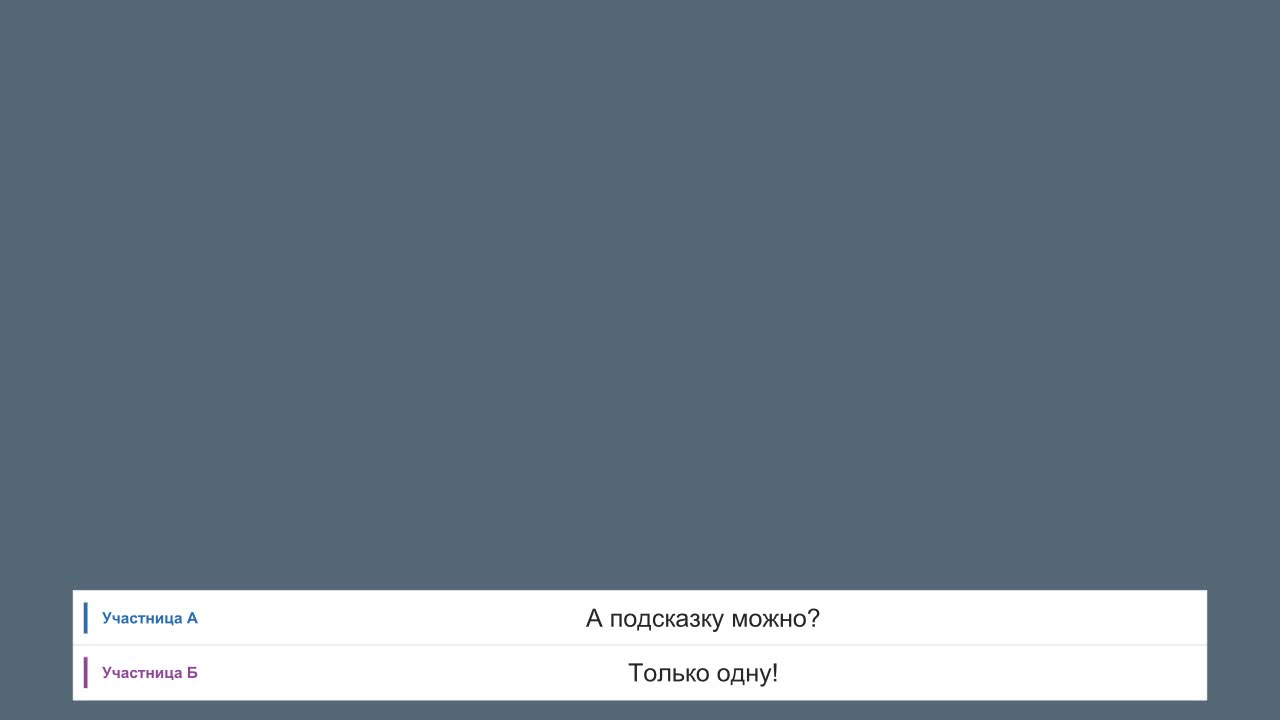
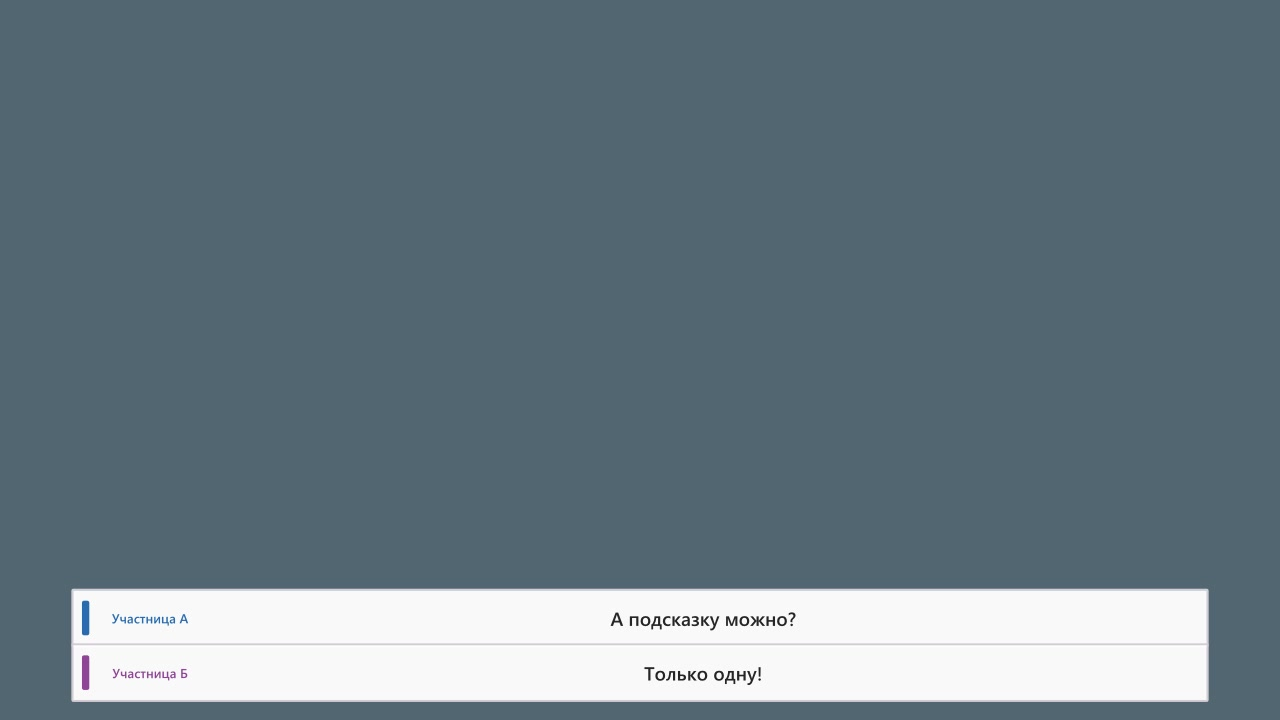
Match compact subtitle preset to episode 12 design reference (#13)

Changed region(s): [[0.0625, 0.825, 0.1562, 0.9778], [0.5, 0.9167, 0.625, 0.9778], [0.4688, 0.8556, 0.625, 0.8861]]

diff --git a/.agents/skills/akb48-video-subtitles/scripts/presentation.py b/.agents/skills/akb48-video-subtitles/scripts/presentation.py
@@ -124,7 +124,10 @@ def render(data, episode):
     if errors: raise ValueError("; ".join(errors))
     # Fixed logical 1080p canvas scales to the video frame in libass.
     # 30 logical pixels = 20 actual pixels in a 720p render.
-    font = data.get("font", "Arial")
+    preset = data.get("style_preset", "episode-12")
+    if preset != "episode-12":
+        raise ValueError("unsupported style_preset; use episode-12")
+    font = data.get("font", "Segoe UI Semibold")
     if not isinstance(font, str) or any(c in font for c in ",\r\n"):
         raise ValueError("invalid font family")
     bottom = data.get("bottom_margin", 30)
@@ -134,6 +137,7 @@ def render(data, episode):
         raise ValueError("raised dialogue requires a scene/placement reason")
     ass = [f"""[Script Info]
 ScriptType: v4.00+
+; Style preset: episode-12 / revision 1
 PlayResX: 1920
 PlayResY: 1080
 WrapStyle: 2
@@ -141,10 +145,10 @@ ScaledBorderAndShadow: yes
 
 [V4+ Styles]
 Format: Name, Fontname, Fontsize, PrimaryColour, SecondaryColour, OutlineColour, BackColour, Bold, Italic, Underline, StrikeOut, ScaleX, ScaleY, Spacing, Angle, BorderStyle, Outline, Shadow, Alignment, MarginL, MarginR, MarginV, Encoding
-Style: Speech,{font},42,&H00252525,&H00252525,&H00FFFFFF,&H00FFFFFF,0,0,0,0,100,100,0,0,1,0,0,5,0,0,0,1
+Style: Speech,{font},40,&H00252525,&H00252525,&H00FFFFFF,&H00FFFFFF,-1,0,0,0,100,100,0,0,1,0,0,5,0,0,0,1
 Style: Speaker,{font},26,&H00252525,&H00252525,&H00FFFFFF,&H00FFFFFF,-1,0,0,0,100,100,0,0,1,0,0,5,0,0,0,1
 Style: Shape,{font},20,&H00FFFFFF,&H00FFFFFF,&H00FFFFFF,&H00FFFFFF,0,0,0,0,100,100,0,0,1,0,0,7,0,0,0,1
-Style: Sign,{font},34,&H00FFFFFF,&H00FFFFFF,&H004D384F,&H004D384F,-1,0,0,0,100,100,0,0,1,0,0,5,0,0,0,1
+Style: Sign,{font},26,&H00FFFFFF,&H00FFFFFF,&H004D384F,&H004D384F,0,0,0,0,100,100,0,0,1,0,0,5,0,0,0,1
 Style: Lyrics,{font},34,&H00252525,&H00252525,&H00FFFFFF,&H00FFFFFF,0,-1,0,0,100,100,0,0,3,4,0,2,100,100,200,1
 
 [Events]
@@ -153,8 +157,8 @@ Format: Layer, Start, End, Style, Name, MarginL, MarginR, MarginV, Effect, Text
     tracks = {"dialogue": [], "inscriptions": [], "lyrics": []}
     def event(e, style, text, layer=2, name=""):
         ass.append(f'Dialogue: {layer},{stamp(e["start_ms"],True)},{stamp(e["end_ms"],True)},{style},{name},0,0,0,,{text}\n')
-    def rect(e, x, y, w, h, color, layer=0):
-        event(e, "Shape", f"{{\\an7\\pos({x},{y})\\p1\\1c&H{color}&\\bord1\\3c&HD5CBD5&}}m 0 0 l {w} 0 l {w} {h} l 0 {h}{{\\p0}}", layer)
+    def rect(e, x, y, w, h, color, layer=0, alpha="00", border="D5CBD5"):
+        event(e, "Shape", f"{{\\an7\\pos({x},{y})\\p1\\1c&H{color}&\\1a&H{alpha}&\\bord3\\3c&H{border}&\\3a&H00&\\shad0}}m 0 0 l {w} 0 l {w} {h} l 0 {h}{{\\p0}}", layer)
     for e in sorted(data["events"], key=lambda x: (x["start_ms"], x["id"])):
         kind = e["kind"]
         if kind == "dialogue":
@@ -182,11 +186,12 @@ Format: Layer, Start, End, Style, Name, MarginL, MarginR, MarginV, Effect, Text
             if sum(len(x[2]) for x in rendered) > 3:
                 raise ValueError(f'event {e["id"]}: split paired exchange longer than three lines')
             for (label, color, lines, voice), height in zip(rendered, heights):
-                rect(e, 110, y, 1700, height, "FFFFFF")
-                rect(e, 126, y+18, 5, height-36, color, 1)
+                rect(e, 110, y, 1700, height, "FFFFFF", alpha="0A")
+                rect(e, 126, y+18, 5, height-36, color, 1, border=color)
                 fs = 22 if len(label)>12 else 26
                 event(e, "Speaker", f"{{\\pos(225,{y+height/2})\\fs{fs}\\1c&H{color}&}}"+safe(label))
-                event(e, "Speech", f"{{\\pos(1055,{y+height/2})}}"+r"\N".join(lines), name=voice)
+                fs = (38 if len(lines) == 1 else 32) if len(rendered) == 2 else 40
+                event(e, "Speech", f"{{\\pos(1055,{y+height/2})\\fs{fs}}}"+r"\N".join(lines), name=voice)
                 y += height
             tracks["dialogue"].append((e, "\n".join(portable)))
         elif kind in ("inscription", "song_title"):
@@ -201,7 +206,7 @@ Format: Layer, Start, End, Style, Name, MarginL, MarginR, MarginV, Effect, Text
                 raise ValueError(f'event {e["id"]}: inscription box outside canvas')
             if w < max(units(line) for line in lines)*20 or h < len(lines)*43:
                 raise ValueError(f'event {e["id"]}: inscription box too small for text')
-            rect(e,x,y,w,h,"6B466F",3)
+            rect(e,x,y,w,h,"8F3487",3,border="D7BC46")
             event(e,"Sign",f"{{\\pos({x+w/2},{y+h/2})}}"+r"\N".join(lines),4)
             tracks["inscriptions"].append((e,e["text"]))
         else:

diff --git a/.agents/skills/akb48-video-subtitles/scripts/render_style_previews.py b/.agents/skills/akb48-video-subtitles/scripts/render_style_previews.py
@@ -1,0 +1,58 @@
+#!/usr/bin/env python3
+"""Render synthetic single, paired and long/sign previews with the real renderer."""
+import argparse
+import json
+from pathlib import Path
+import shutil
+import subprocess
+import tempfile
+
+from presentation import render
+
+
+def main():
+    parser = argparse.ArgumentParser(description=__doc__)
+    parser.add_argument('--output-dir', type=Path, required=True)
+    parser.add_argument('--font', help='Explicit installed font override, e.g. Arial')
+    args = parser.parse_args()
+    assets = Path(__file__).resolve().parents[1] / 'assets'
+    data = json.loads((assets / 'presentation.example.json').read_text(encoding='utf-8'))
+    episode = json.loads((assets / 'presentation.settings.json').read_text(encoding='utf-8'))
+    if args.font:
+        data['font'] = args.font
+    names = {'compact-single-preview.jpg': 1, 'compact-preview.jpg': 4.5,
+             'compact-long-preview.jpg': 6.5}
+    output = args.output_dir.resolve()
+    if any((output / name).exists() for name in [*names, 'compact.ass']):
+        parser.error('preview files already exist; use a new output folder')
+    if not shutil.which('ffmpeg'):
+        parser.error('FFmpeg with libass is required')
+    try:
+        ass, _, _ = render(data, episode)
+        with tempfile.TemporaryDirectory(prefix='akb48-preview-') as tmp:
+            temp = Path(tmp)
+            (temp / 'preview.ass').write_text(ass, encoding='utf-8-sig')
+            for name, seconds in names.items():
+                # Relative ASCII filter path avoids shell/filter quoting on Windows.
+                result = subprocess.run([
+                    'ffmpeg', '-nostdin', '-hide_banner', '-loglevel', 'info',
+                    '-f', 'lavfi', '-i', 'color=c=0x536571:s=1280x720:d=10:r=24',
+                    '-vf', 'ass=preview.ass', '-ss', str(seconds),
+                    '-frames:v', '1', '-q:v', '2', '-update', '1', str(temp / name)
+                ], cwd=temp, capture_output=True, text=True, encoding='utf-8',
+                    errors='replace', timeout=60)
+                (temp / (name + '.log')).write_text(result.stderr, encoding='utf-8')
+                if result.returncode:
+                    raise ValueError('FFmpeg preview failed: ' + result.stderr[-2000:])
+            output.mkdir(parents=True, exist_ok=True)
+            (output / 'compact.ass').write_text(ass, encoding='utf-8-sig')
+            for name in names:
+                shutil.copy2(temp / name, output / name)
+                shutil.copy2(temp / (name + '.log'), output / (name + '.log'))
+        print('Rendered three style previews and compact.ass; inspect fontselect logs.')
+    except (OSError, ValueError, subprocess.TimeoutExpired) as error:
+        parser.error(str(error))
+
+
+if __name__ == '__main__':
+    main()

diff --git a/tests/test_presentation.py b/tests/test_presentation.py
@@ -1,5 +1,6 @@
 """Prevent the real-trial failures: mixed voices, unsolicited lyrics and raised panels."""
 import json
+import shutil
 from pathlib import Path
 import subprocess
 import sys
@@ -26,6 +27,41 @@ class PresentationTests(unittest.TestCase):
         self.assertIn('Викторина',tracks['inscriptions'])
         self.assertEqual(tracks['lyrics'],'')
         self.assertIn(r'\pos(110,968)',ass) # 82px panel, bottom=1050 => 30px margin.
+
+    def test_published_ass_is_generated_from_the_installed_example(self):
+        expected, _, _ = render(self.data, self.episode)
+        published = SKILL.parents[2] / 'examples' / 'compact.ass'
+        self.assertEqual(published.read_text(encoding='utf-8-sig'), expected)
+
+    def test_unknown_preset_cannot_silently_change_style(self):
+        self.data['style_preset'] = 'plain-text-boxes'
+        with self.assertRaisesRegex(ValueError, 'unsupported style_preset'):
+            render(self.data, self.episode)
+
+    @unittest.skipUnless(shutil.which('ffmpeg'), 'FFmpeg unavailable')
+    def test_real_previews_keep_lower_baseline_and_expand_upwards(self):
+        with tempfile.TemporaryDirectory() as folder:
+            result = subprocess.run([
+                sys.executable, str(SKILL/'scripts/render_style_previews.py'),
+                '--output-dir', folder, '--font', 'Arial'
+            ], capture_output=True, text=True, timeout=60)
+            self.assertEqual(result.returncode, 0, result.stderr)
+            def pixel(name, x, y):
+                result = subprocess.run([
+                    'ffmpeg', '-nostdin', '-v', 'error', '-i', str(Path(folder)/name),
+                    '-vf', f'format=rgb24,crop=1:1:{x}:{y}', '-frames:v', '1',
+                    '-f', 'rawvideo', '-pix_fmt', 'rgb24', '-'
+                ], capture_output=True, timeout=20)
+                self.assertEqual(result.returncode, 0, result.stderr)
+                self.assertEqual(len(result.stdout), 3)
+                return min(result.stdout)
+            for name in ('compact-single-preview.jpg', 'compact-preview.jpg',
+                         'compact-long-preview.jpg'):
+                self.assertGreater(pixel(name, 90, 680), 230) # Light panel.
+                self.assertLess(pixel(name, 90, 710), 160) # Lower margin stays clear.
+            self.assertLess(pixel('compact-single-preview.jpg', 90, 610), 160)
+            self.assertGreater(pixel('compact-preview.jpg', 90, 610), 230)
+            self.assertGreater(pixel('compact-long-preview.jpg', 90, 630), 230)
 
     def test_mixed_known_speakers_cannot_be_merged(self):
         self.data['events'][0]['rows'][0]['source_ids']=['t1','t2']

diff --git a/.agents/skills/akb48-video-subtitles/SKILL.md b/.agents/skills/akb48-video-subtitles/SKILL.md
@@ -9,14 +9,14 @@ Use this workflow for a supplied local video or a source the user is authorized 
 
 1. Identify the episode, cast, source language, available captions, requested target language, and deliverables. Read the relevant language profile in `references/languages/`, the matching bundled `glossaries/members/{locale}.csv`, `glossaries/terms/{locale}.csv` **and** `glossaries/songs.csv` for fan / stage / event terminology, plus any episode-specific glossary the user supplied (which takes precedence).
 2. For optional faster-whisper setup and Japanese transcription, read [transcription.md](references/transcription.md). Build a source transcript from reliable captions or Japanese ASR, then compare uncertain names, numbers, jokes, and omissions against audio. Use frames to translate signs and graphics; do not treat OCR or ASR as ground truth.
-3. Use the ID-stable contract in `references/translation-protocol.md`: translate in 40–60-cue chunks (or shorter scene boundaries), preserve exactly the source cue IDs and order, write source and target JSON files, and run `scripts/check_translation.py` before assembling display subtitles. Translate naturally for the selected audience. Preserve uncertainty. Attribute a line only when audio, timing, or clear context supports it; otherwise use a neutral role label or leave attribution off. Split a caption only at a supported speaker/turn boundary.
+3. Use the ID-stable contract in `references/translation-protocol.md`: translate in 40–60-cue chunks (or shorter scene boundaries), preserve exactly the source cue IDs and order, write source and target JSON files, and run `scripts/check_translation.py` before assembling display subtitles. Translate naturally for the selected audience. Preserve uncertainty. Attribute a line only when audio, timing, or clear context supports it; otherwise use a neutral role label and record the uncertainty. Split a caption only at a supported speaker/turn boundary.
 4. Check member names, fan terms **and song titles** against their distinct glossaries; see the rules below. Song titles are proper names, not content to translate literally.
 
-5. Before assembling display events, read [presentation.md](references/presentation.md) and write work/presentation.json with source-turn speaker evidence. Never merge unknown voices or distinct speakers into an unlabeled sentence; paired exchanges need separate visible names/roles. Use scripts/build_presentation.py for the supported compact name-rail layout. Its default lower margin is 30px on a logical 1080p canvas (20px at 720p); raise specific scenes only with a reason. Create standalone subtitles and, if requested, a rendered video. Follow the selected profile for font, line length, punctuation, honorifics, and reading speed. Keep labels compact and away from faces and important source graphics.
+5. Before assembling display events, read [presentation.md](references/presentation.md) and write work/presentation.json with source-turn speaker evidence. Never merge unknown voices or distinct speakers into an unlabeled sentence; paired exchanges need separate visible names/roles. Use scripts/build_presentation.py with style_preset: "episode-12" for the supported compact name-rail layout: translucent light panel, separate colored name/rail and dark semibold dialogue. Do not replace this with plain text boxes or hand-authored ASS. Its default lower margin is 30px on a logical 1080p canvas (20px at 720p); raise specific scenes only with a reason. Create standalone subtitles and, if requested, a rendered video. Follow the selected profile for font, line length, punctuation, honorifics, and reading speed. Keep labels compact and away from faces and important source graphics.
 6. Review representative frames throughout the video and check the final render. Where media tooling is available, verify full decode, duration/frame rate, subtitle archive integrity, and that the original audio remains unchanged when intended.
 7. Record `episode.json` at start (`scripts/init_project.py` for a new folder), and run `scripts/run_checks.py --project PROJECT --require-translation` to write `report.json` from actual diagnostics. Do not call skipped checks passed. Deliver direct paths to the requested files and state any unresolved translation, timing, speaker, or rights limitations.
 
-Read [workflow.md](references/workflow.md) for stage details and review boundaries. Read [resources.md](references/resources.md) before setup or rendering. Load only the chosen target-language profile from `references/languages/`. Profiles marked draft need a fluent speaker's review before production use. Use `scripts/check_srt.py` for SRT syntax, numeric time ranges, cue ordering/indexes, overlap, and readability reports; pass `--duration` when the source length is known. Use `scripts/check_environment.py --require-ass` before ASS rendering. `assets/presentation.example.json` is the current self-contained renderer example. The older repository-root `examples/demo.ass` is a legacy static illustration, not the default style. The checks do not assess translation quality.
+Read [workflow.md](references/workflow.md) for stage details and review boundaries. Read [resources.md](references/resources.md) before setup or rendering. Load only the chosen target-language profile from `references/languages/`. Profiles marked draft need a fluent speaker's review before production use. Use `scripts/check_srt.py` for SRT syntax, numeric time ranges, cue ordering/indexes, overlap, and readability reports; pass `--duration` when the source length is known. Use `scripts/check_environment.py --require-ass` before ASS rendering. `assets/presentation.example.json` is the current self-contained renderer example. Generate single/paired/long-with-sign previews with `scripts/render_style_previews.py` and inspect font substitution before rendering the episode. The older repository-root `examples/demo.ass` is a legacy static illustration, not the default style. The checks do not assess translation quality.
 
 For provenance, fallback rules and coverage, read `glossaries/README.md`. Bundled glossaries live inside this skill folder and cover 83 selected current and historical 48 Group personalities (including sister groups), not a current AKB48 roster. Read `glossaries/terms/README.md` for the separate 35-term subtitle lexicon and its unreviewed translation status.
 

diff --git a/.agents/skills/akb48-video-subtitles/references/presentation.md b/.agents/skills/akb48-video-subtitles/references/presentation.md
@@ -3,7 +3,7 @@
 The independent trial found three failures despite valid media: short replies
 were joined without speaker evidence, neutral text boxes lost the name-label
 layout, and two unrequested song fragments were burned into the output.
-The supported default now has an executable display contract and renderer.
+The supported default now has an executable display contract and renderer. The `episode-12` preset follows the compact panel in the episode 12 reference: translucent white panel, pale border, colored name and matching rail, and dark semibold dialogue. Ordinary per-text background boxes do not implement this preset.
 
 ## Scope first: background songs are omitted by default
 
@@ -31,10 +31,11 @@ spellings and are a separate content class.
 
 Use [the bundled example](../assets/presentation.example.json) as the schema
 example. The matching [settings](../assets/presentation.settings.json) are only
-for the six-second synthetic demo; use the real initialized `episode.json` for
+for the ten-second synthetic demo; use the real initialized `episode.json` for
 an episode. These assets are included when installing the standalone skill.
 
 - `schema_version`: 1.
+- `style_preset`: `"episode-12"` (also the default when omitted). Unknown preset names fail; do not invent a replacement.
 - `speakers`: safe stable IDs mapped to concise visible `label` and `color`
   (`#RRGGBB`). Use verified names or evidence-backed neutral voice roles.
 - `turns`: source turn ID mapped to `speaker_id` (or null) and attribution
@@ -60,7 +61,7 @@ an episode. These assets are included when installing the standalone skill.
 - Inscriptions/song titles use `text` and an explicit `box: [x,y,width,height]`
   on the logical 1920x1080 canvas. Position them near their source text while
   avoiding faces and dialogue. Inscriptions have distinct dark colored panels
-  and white text; speech has a light panel, dark text, colored name and thin rail.
+  and white text with a cyan border; speech has a translucent light panel, dark text, colored name and matching thin rail.
 
 ## Generate and validate
 
@@ -95,8 +96,17 @@ baseline; long exchanges must be split, not squeezed into tiny type.
 
 Use optional event-level `bottom_margin` only for a scene with conflicting source
 graphics. Values above 60 logical pixels require `placement_reason`; do not
-raise the whole video preemptively. Fonts default to Arial; supply a locally
-available, language-capable `font` family if necessary. Font files are not bundled.
+raise the whole video preemptively. The reference font is **Segoe UI Semibold**, used by default, with 40 logical px for a single speaker, 38 px for paired one-line replies and 32 px for a paired two-line reply; names use 26/22 px. The panel spans x=110–1810, with ASS fill alpha `0A`, a 3px pale outline and a same-color outlined name rail. Sign panels use purple fill, a cyan outline and 26px white text.
+
+Segoe UI Semibold is normally available on Windows. Font files are **not bundled**; on other systems or for missing glyph coverage, explicitly set an installed language-capable `font`, such as Arial or Noto Sans. This preserves geometry but can change wrapping and appearance; never claim a pixel-identical match after substitution. Inspect FFmpeg `fontselect` and missing-glyph messages as well as the actual frames.
+
+Generate all three synthetic checks using the **same renderer** as real episodes:
+
+```sh
+python .agents/skills/akb48-video-subtitles/scripts/render_style_previews.py --output-dir work/style-previews
+```
+
+Use a new output directory (the command refuses existing files). The script saves ASS, single, paired and two-line-with-sign JPGs, plus FFmpeg font-selection logs. Use `--font Arial` only as an explicit font override. These previews prove the installed renderer can draw the preset; inspect additional frames from the actual episode too. In a production project, compare the first rendered frames to the approved example before encoding the full video. Old manually styled ASS must be regenerated from reviewed presentation data; a skill update alone does not restyle existing MP4 files.
 
 The renderer uses approximate character widths and requires explicit appropriate
 breaks for long unspaced scripts. It deliberately rejects long text instead of

diff --git a/README.ru.md b/README.ru.md
@@ -29,6 +29,14 @@ python .agents/skills/akb48-video-subtitles/scripts/check_environment.py --requi
 
 ## Примеры
 
+### Актуальное оформление skill — образец выпуска №12
+
+Пример создан штатным сборщиком: светлая полупрозрачная плашка, отдельное цветное имя с маркером и тёмная полужирная реплика. Это оформление используется по умолчанию; обычные подложки под текстом ему не соответствуют.
+
+![Одна реплика](examples/compact-single-preview.jpg)
+
+[Парный обмен](examples/compact-preview.jpg) · [Длинная реплика и надпись](examples/compact-long-preview.jpg) · [ASS](examples/compact.ass)
+
 **Выпуск №12 — подпись говорящей и компактная плашка** ([видео](https://www.youtube.com/watch?v=aPznmLtjedw))
 
 ![Пример субтитров, выпуск 12](examples/preview-episode-12.jpg)
@@ -158,4 +166,4 @@ python .agents/skills/akb48-video-subtitles/scripts/check_song_titles.py --input
 
 ## Говорящие и компактное оформление (0.5.0)
 
-Для ASS/видео теперь нужна проверенная `work/presentation.json`. Сборщик `build_presentation.py` и проверка `check_presentation.py` обеспечивают имена/роли, раздельные реплики и отдельные плашки надписей. Неизвестные голоса автоматически не объединяются. Нижний отступ по умолчанию — 30 логических px на 1080p, то есть 20 px на 720p. Фоновые и концертные песни пропускаются без явного запроса. Старые проекты без разметки получают incomplete. См. [схему и команды](.agents/skills/akb48-video-subtitles/references/presentation.md) и [синтетическое превью](examples/compact-preview.jpg) нового оформления; кадры программы показывают прежнюю локальную работу.
+Для ASS/видео теперь нужна проверенная `work/presentation.json`. Сборщик `build_presentation.py` и проверка `check_presentation.py` обеспечивают имена/роли, раздельные реплики и отдельные плашки надписей. Неизвестные голоса автоматически не объединяются. Нижний отступ по умолчанию — 30 логических px на 1080p, то есть 20 px на 720p. Фоновые и концертные песни пропускаются без явного запроса. Старые проекты без разметки получают incomplete. См. [схему и команды](.agents/skills/akb48-video-subtitles/references/presentation.md) и [синтетическое превью](examples/compact-preview.jpg) нового оформления; кадры программы служат исходными референсами оформления.

diff --git a/README.md b/README.md
@@ -29,6 +29,14 @@ Omit background music and song lyrics. Review names, dialogue meaning, signs and
 
 ## Preview
 
+### Current skill layout — episode-12 preset
+
+Generated by the bundled renderer: a translucent light panel, separate colored speaker label and rail, and dark semibold dialogue. This is the default to reproduce; plain text boxes are not equivalent.
+
+![Single speaker](examples/compact-single-preview.jpg)
+
+[Paired replies](examples/compact-preview.jpg) · [Long dialogue and sign](examples/compact-long-preview.jpg) · [ASS](examples/compact.ass)
+
 **Episode 12 — speaker label and compact subtitle panel** ([source video](https://www.youtube.com/watch?v=aPznmLtjedw))
 
 ![Episode 12 subtitle example](examples/preview-episode-12.jpg)
@@ -176,4 +184,4 @@ Use **faster-whisper** to draft Japanese speech recognition or cross-check exist
 
 ## Speaker-aware compact output (0.5.0)
 
-Styled output now requires reviewed `work/presentation.json`. Use the bundled `build_presentation.py` and `check_presentation.py`: visible names/roles, no automatic merging of unknown voices, separate sign panels, and a default lower margin of 30 logical pixels (20px at 720p). Background/performance lyrics are omitted unless explicitly requested in the manifest. Older ASS/video projects without this work file report incomplete. See the [schema, commands and limits](.agents/skills/akb48-video-subtitles/references/presentation.md). The [synthetic preview](examples/compact-preview.jpg) shows the current default; existing program screenshots illustrate earlier local work.
+Styled output now requires reviewed `work/presentation.json`. Use the bundled `build_presentation.py` and `check_presentation.py`: visible names/roles, no automatic merging of unknown voices, separate sign panels, and a default lower margin of 30 logical pixels (20px at 720p). Background/performance lyrics are omitted unless explicitly requested in the manifest. Older ASS/video projects without this work file report incomplete. See the [schema, commands and limits](.agents/skills/akb48-video-subtitles/references/presentation.md). The [synthetic preview](examples/compact-preview.jpg) shows the current default; the episode screenshots are the original local design references.

diff --git a/examples/README.md b/examples/README.md
@@ -17,9 +17,25 @@ excluded from the repository's MIT license. Attribution does not itself
 authorize redistribution; applicability of any Japanese-law quotation
 exception is case-specific, as described in [NOTICE](../NOTICE).
 
-For a freely redistributable **synthetic layout reference** rather than a
-real AKB48 still, use [demo.ass](demo.ass).
+For a freely redistributable **synthetic layout reference**, use the current renderer previews below. `demo.ass` is an older static illustration.
 
 ## Current compact renderer
 
 `compact.ass` and `compact-preview.jpg` are synthetic, original MIT-licensed examples of the current default. Generate them from the installed skill assets `presentation.example.json` and `presentation.settings.json` using `build_presentation.py`; see the [presentation guide](../.agents/skills/akb48-video-subtitles/references/presentation.md). `demo.ass` remains a legacy static illustration for parser tests, not the recommended new layout.
+
+
+## Episode-12 preset (current default)
+
+The source-attributed episode 12 frame is the design reference, not output from a separate generic text-box style. The renderer now follows its panel geometry, translucent fill, semibold type, separate speaker name/rail and purple/cyan sign design. It keeps the improved 30 logical px lower margin (20px at 720p). Fonts can change exact pixels; the checked-in previews use Segoe UI Semibold, not bundled with the skill.
+
+- [Single speaker with sign](compact-single-preview.jpg)
+- [Paired replies](compact-preview.jpg)
+- [Two-line dialogue with sign](compact-long-preview.jpg)
+
+These three original synthetic JPGs and `compact.ass` are MIT-licensed. Regenerate them from the repository root into a new folder:
+
+```sh
+python .agents/skills/akb48-video-subtitles/scripts/render_style_previews.py --output-dir work/style-previews
+```
+
+The script uses the bundled ten-second example and the production renderer, and saves font-selection logs. On systems without the reference font, explicitly choose an installed alternative with `--font Arial` (or another language-capable family), then review line fit. No font files or source episode frames are needed for these synthetic previews.

diff --git a/docs/workflow.en.md b/docs/workflow.en.md
@@ -161,9 +161,9 @@ characters/second is a review flag, not a universal limit for every language.
 Names and spaces also add reading load. Short reactions and paired exchanges
 need individual decisions.
 
-The following table describes a historical manual layout reference for
-1920×1080, rather than mandatory settings for all videos. For current renderer
-defaults and placement overrides use the [presentation guide](../.agents/skills/akb48-video-subtitles/references/presentation.md).
+The following 1920×1080 reference is now the skill's `episode-12` preset:
+translucent light panels, semibold dialogue, separate colored names/rails and
+purple signs with cyan borders. For renderer defaults and placement overrides use the [presentation guide](../.agents/skills/akb48-video-subtitles/references/presentation.md).
 
 | Element | Reference |
 |---|---|
@@ -171,7 +171,7 @@ defaults and placement overrides use the [presentation guide](../.agents/skills/
 | Height | 82 px for one line, 128 px for two |
 | Body | 40 px, dark text on a light panel |
 | Name | 26 px, or 22 px for a long label; thin colored rail |
-| Paired exchange | separately labeled rows, historically 38/32 px depending on wrapping |
+| Paired exchange | separately labeled rows, 38/32 px depending on wrapping |
 | Upper title | two narrow bars without covering faces |
 
 A character count from one font/language does not guarantee a line fits another.

diff --git a/README.th.md b/README.th.md
@@ -29,6 +29,14 @@ python .agents/skills/akb48-video-subtitles/scripts/check_environment.py --requi
 
 ## ตัวอย่าง
 
+### รูปแบบปัจจุบันของ skill — พรีเซ็ตตอนที่ 12
+
+ตัวอย่างนี้สร้างด้วยตัวเรนเดอร์ที่ให้มา ใช้แผงสีอ่อนโปร่งแสง ชื่อผู้พูดและแถบสีแยกจากบทพูดสีเข้มตัวกึ่งหนาเป็นค่าเริ่มต้น กล่องพื้นหลังข้อความธรรมดาไม่ใช่รูปแบบเดียวกัน
+
+![ผู้พูดคนเดียว](examples/compact-single-preview.jpg)
+
+[บทสนทนาสองคน](examples/compact-preview.jpg) · [บทพูดยาวและข้อความบนจอ](examples/compact-long-preview.jpg) · [ASS](examples/compact.ass)
+
 **ตอนที่ 12 — ป้ายชื่อผู้พูดและแถบซับขนาดกะทัดรัด** ([วิดีโอต้นฉบับ](https://www.youtube.com/watch?v=aPznmLtjedw))
 
 ![ตัวอย่างซับตอนที่ 12](examples/preview-episode-12.jpg)

diff --git a/docs/workflow.ru.md b/docs/workflow.ru.md
@@ -158,7 +158,7 @@ ffmpeg -nostdin -i episodes/demo/source/original.mp4 -vf "fps=1/4,scale=1280:-2"
 требуют индивидуального решения.
 
 В компактном оформлении последних локальных выпусков использовались следующие
-параметры для 1920×1080. Это исторический пример ручного оформления, не обязательные настройки skill. Актуальные параметры сборщика описаны в [руководстве по отображению](../.agents/skills/akb48-video-subtitles/references/presentation.md):
+параметры для 1920×1080. Этот образец теперь закреплён в skill как `style_preset: "episode-12"`: полупрозрачная светлая подложка, полужирный текст, отдельное имя с цветным маркером и фиолетовые надписи с голубой рамкой. Параметры сборщика описаны в [руководстве по отображению](../.agents/skills/akb48-video-subtitles/references/presentation.md):
 
 | Элемент | Пример |
 |---|---|

diff --git a/CHANGELOG.md b/CHANGELOG.md
@@ -1,5 +1,10 @@
 # Changelog
 
+## 0.6.0 — 2026-11-01
+- Made the episode-12 reference panel an explicit renderer preset: semibold dialogue, separate colored names/rails, translucent light panels, pale borders and purple/cyan sign panels. Kept the 30px logical lower margin and speaker/lyrics checks.
+- Added reproducible single, paired and long/sign previews using the actual renderer, with FFmpeg font-selection logs and explicit font portability guidance.
+- Updated preview placement across all README languages; existing MP4 files require a separate rebuild.
+
 ## 0.5.1 — 2026-11-01
 - Added a full English practical workflow, EN/RU navigation and English guide links in seven non-Russian READMEs; clarified that these guides are not installed runtime requirements.
 - Expanded the sourced song-title catalogue from 5 to 78 entries, preserving existing IDs and documenting coverage, source status and romanization limitations.
